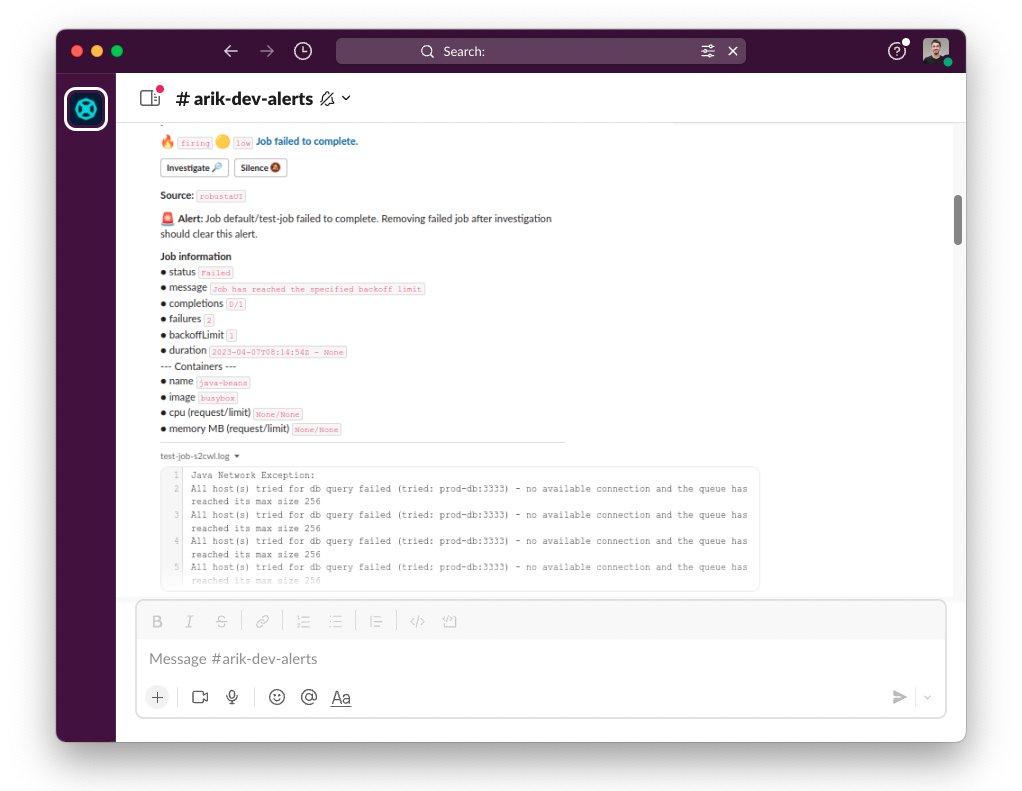
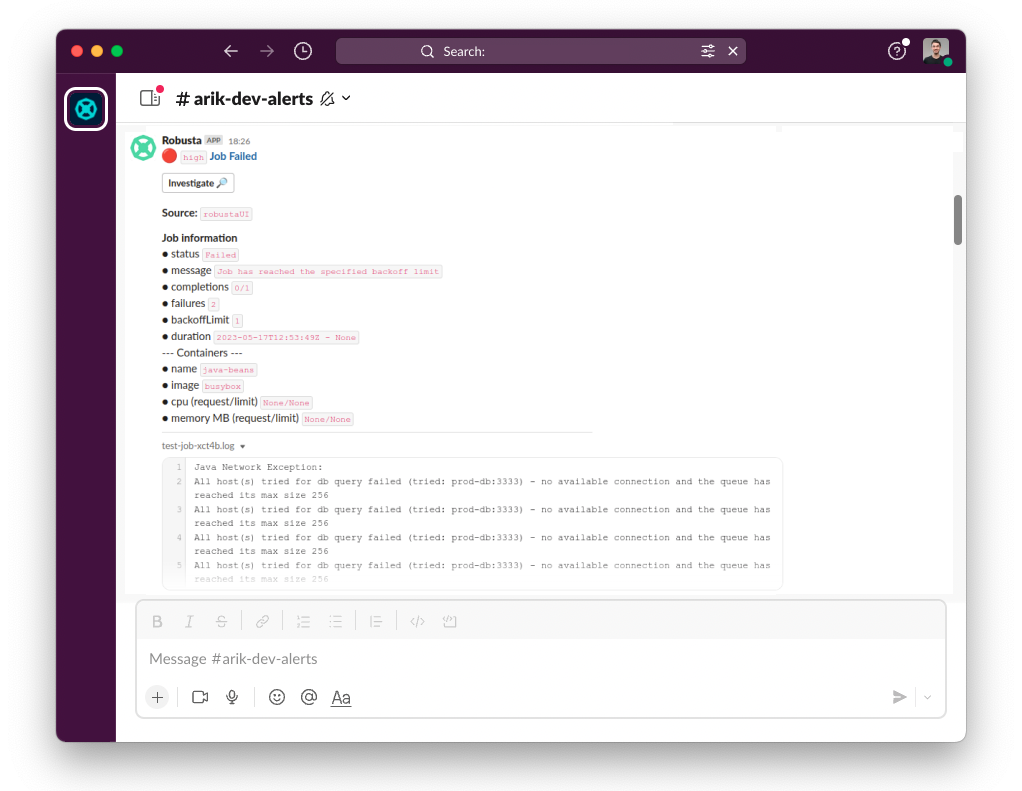
Update playbook-job-failure.rst (#872)
* Update playbook-job-failure.rst

* Updated failing job and struck job images

---------

Changed region(s): [[0.1213, 0.1517, 0.7583, 0.7282]]

diff --git a/docs/tutorials/playbook-job-failure.rst b/docs/tutorials/playbook-job-failure.rst
@@ -1,8 +1,15 @@
 Track Failed Kubernetes Jobs
 ##############################
 
-Lets track failing Kubernetes Jobs and notify the user. Notifications will be sent to all configured :ref:`Sinks <Sinks Reference>`
-like Slack, MSTeams, or DataDog. It is also possible to :ref:`route notifications to specific sinks<Routing Alerts to Specific Sinks>`.
+Notify about failed Kubernetes Jobs in Slack, MSTeams, DataDog, or other :ref:`Sinks <Sinks Reference>`.
+
+.. image:: /images/failingjobs.png
+    :alt: Failing Kubernetes jobs notification on Slack
+    :align: center
+
+.. admonition:: Avoid Duplicate Alerts
+
+    If you installed Robusta with the embedded Prometheus stack, you don't need to configure this playbook. It's configured by default.
 
 Defining a Playbook
 ------------------------------------------
@@ -13,7 +20,7 @@ Add the following YAML to the ``customPlaybooks`` Helm value:
 
     customPlaybooks:
     - triggers:
-      - on_job_failure: {}
+      - on_job_failure: {}  # (1)
       actions:
       - create_finding:
           title: "Job Failed"
@@ -21,6 +28,14 @@ Add the following YAML to the ``customPlaybooks`` Helm value:
       - job_info_enricher: {}
       - job_events_enricher: {}
       - job_pod_enricher: {}
+
+.. code-annotations::
+    1. :ref:`on_job_failure<on_job_failure>` fires once for each failed Kubernetes Job
+    2. :ref:`create_finding<create_finding>` generates a notification message
+    3. :ref:`job_info_enricher<job_info_enricher>` fetches the Jobs status and information
+    4. :ref:`job_events_enricher<job_events_enricher>` runs ``kubectl get events``, finds Events related to the Job, and attaches them
+    5. :ref:`job_pod_enricher<job_pod_enricher>` finds Pods that were part of the Job. It attaches Pod-level information like Pod logs
+
 
 Then do a :ref:`Helm Upgrade <Simple Upgrade>`.
 
@@ -33,25 +48,10 @@ Deploy a failing job. The job will fail after 60 seconds, then attempt to run ag
 
     kubectl apply -f https://raw.githubusercontent.com/robusta-dev/kubernetes-demos/main/job_failure/job_crash.yaml
 
-.. details:: Output
+Tips and Tricks
+----------------
 
-    .. image:: /images/failingjobs.png
-        :alt: Failing Kubernetes jobs notification on Slack
-        :align: center
+Route failed Jobs to specific Slack channels
+^^^^^^^^^^^^^^^^^^^^^^^^^^^^^^^^^^^^^^^^^^^^^^^^^^
+Refer to :ref:`docs on notification routing<Routing Alerts to Specific Sinks>`.
 
-
-How it Works
--------------
-
-This playbook uses the :ref:`on_job_failure<on_job_failure>` trigger, that fires once for each Job failure.
-
-It uses the :ref:`create_finding <create_finding>` action to generate a notification message, and three additional actions to
-attach extra information: :ref:`job_info_enricher <job_info_enricher>`, :ref:`job_events_enricher <job_events_enricher>`,
-and :ref:`job_pod_enricher <job_pod_enricher>`.
-
-Avoiding Duplicate Notifications
-------------------------------------------
-Many Prometheus installations include a default alert to track failing Kubernetes Jobs.
-
-When using Robusta, you can disable that Prometheus alert or you can use the ``on_prometheus_alert`` trigger instead
-of the ``on_job_failure`` trigger to avoid a duplicate. Robusta does something similar out of the box.

diff --git a/docs/index.rst b/docs/index.rst
@@ -114,7 +114,7 @@ Robusta is an open source observability tool for Kubernetes, which extends Prome
 
             .. md-tab-item:: Stuck Job
 
-               .. image:: /images/failingjobs.png
+               .. image:: /images/struckjob.png
                    :width: 800px
 
             .. md-tab-item:: JIRA Integration
